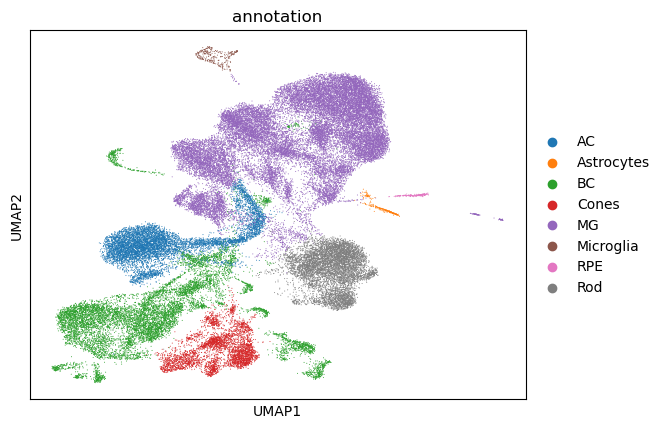
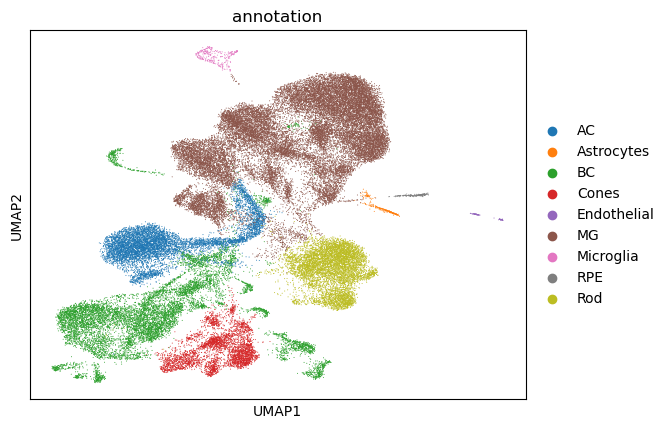
Update annotations to add Endothelial cells

diff --git a/README.md b/README.md
@@ -130,10 +130,7 @@ Basically:
 
 ## Annotations 
 
-![Annotations](figures/umap_mInsm1_annotated_annotations.png?v=2)
+![Annotations](figures/umap_mInsm1_annotated_annotations.png?v=3)
 
-![Annotations ON](figures/umap_mInsm1_annotated_annotationsON.png?v=2)
-
-
-
+![Annotations ON](figures/umap_mInsm1_annotated_annotationsON.png?v=3)
 
